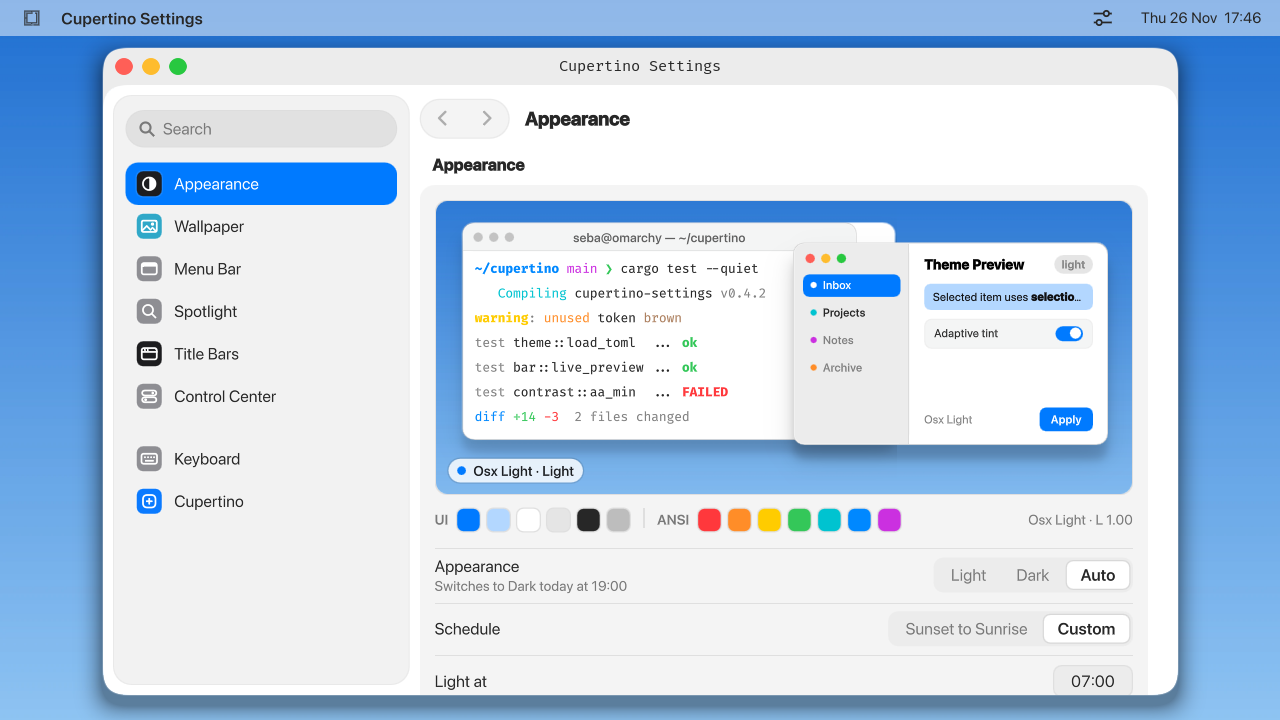
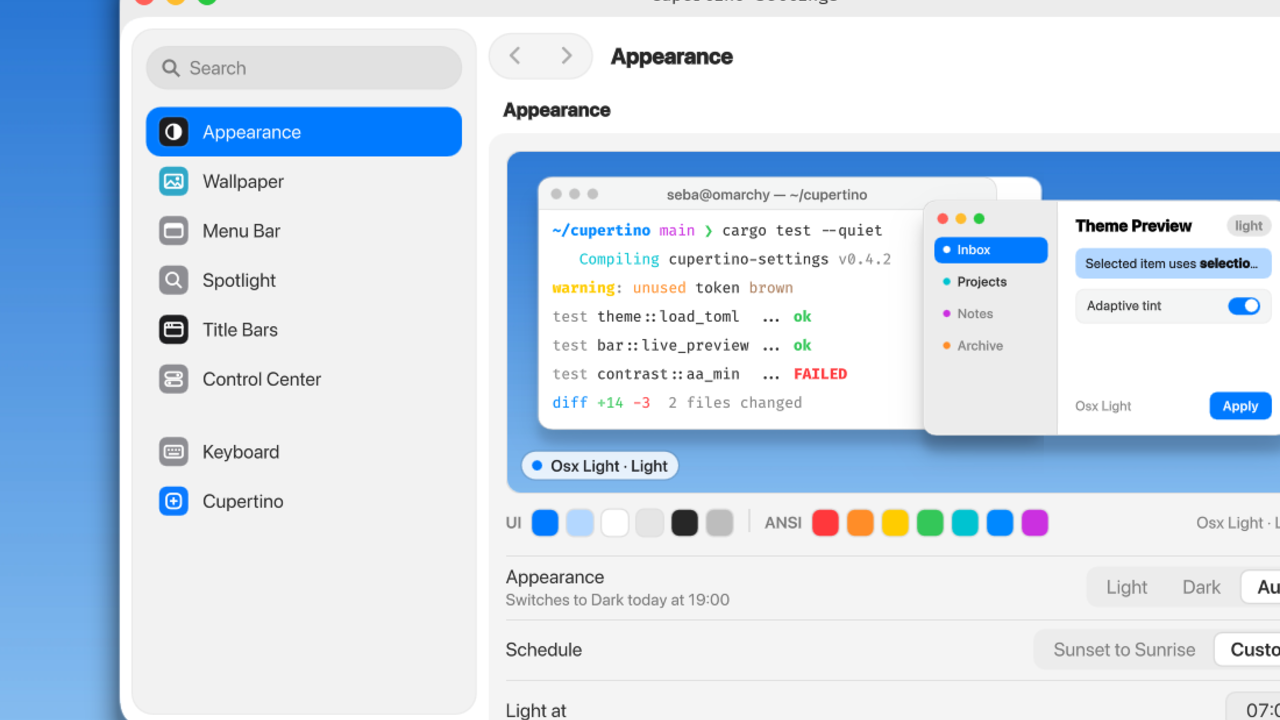
fix(scripts): harden readme media sandbox and cleanup

diff --git a/README.md b/README.md
@@ -5,7 +5,7 @@ A macOS look for [Omarchy](https://omarchy.org) 4.5 or newer.
 | Part | What you get |
 | --- | --- |
 | [Menu bar](#menu-bar) | A Mac-style top bar in place of the Omarchy bar |
-| [Control Center](#control-center) | One panel for Wi-Fi, Bluetooth, Focus, display, sound and media |
+| [Control Center](#control-center) | Floating controls for Wi-Fi, Bluetooth, Focus, theme, Night Light, display, sound and media |
 | [Spotlight](#spotlight) | The Omarchy menu drawn as macOS Spotlight |
 | [Title bars](#title-bars-and-windows) | Traffic lights on floating workspaces, rounded corners everywhere |
 | [Themes](#themes) | OSX Light and OSX Dark |
